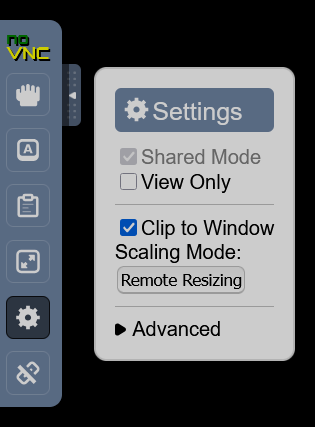
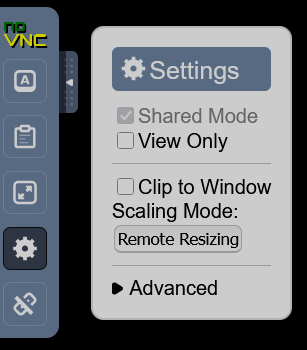
Use timezone from host Set Remote Resizing as default Update README

diff --git a/docker/novnc/index.html b/docker/novnc/index.html
@@ -1,9 +1,9 @@
 <!DOCTYPE html>
 <html>
 <head>
-  <meta http-equiv="refresh" content="0; url=vnc.html?autoconnect=true">
+  <meta http-equiv="refresh" content="0; url=vnc.html?resize=remote&autoconnect=true">
 </head>
 <body>
-  <p>Redirecting to <a href="vnc.html?autoconnect=true">vnc.html</a>...</p>
+  <p>Redirecting to <a href="vnc.html?resize=remote&autoconnect=true">vnc.html</a>...</p>
 </body>
 </html>

diff --git a/README.md b/README.md
@@ -22,6 +22,7 @@ docker run -d \
   -p 8080:6080 \
   -p 5900:5900 \
   -e SCREEN_RESOLUTION=1366x768 \
+  -v /etc/localtime:/etc/localtime:ro \
   -v "$(pwd)/lsss:/lsss" \
   -v "$(pwd)/path/to/datastore1:/lsss/datastore1" \
   -v "$(pwd)/path/to/datastore2:/lsss/datastore2" \
@@ -52,6 +53,7 @@ services:
     environment:
       - SCREEN_RESOLUTION=1366x768
     volumes:
+      - /etc/localtime:/etc/localtime:ro # Set the container's timezone to match the host
       - ./lsss:/lsss # Main LSSS directory
       - ./path/to/datastore1:/lsss/datastore1 # Optional 1, replace with actual path
       - ./path/to/datastore2:/lsss/datastore2 # Optional 2, replace with actual path
@@ -63,10 +65,9 @@ services:
 - Desktop resolution can be modified with the `SCREEN_RESOLUTION` environment variable
 - To connect with a VNC client, use port 5900.
 
-## Scaling the resolution to fit the browser window.
+## Scaling the resolution to fit the browser window (default)
 
 - Open the **noVNC pop-out** on the left side and click on the **gear icon**
-- Check the **Clip to Window**
 - Set the Scaling Mode to **Remote Resizing**
 
 ![Screenshot](novnc-screenshot.png)
